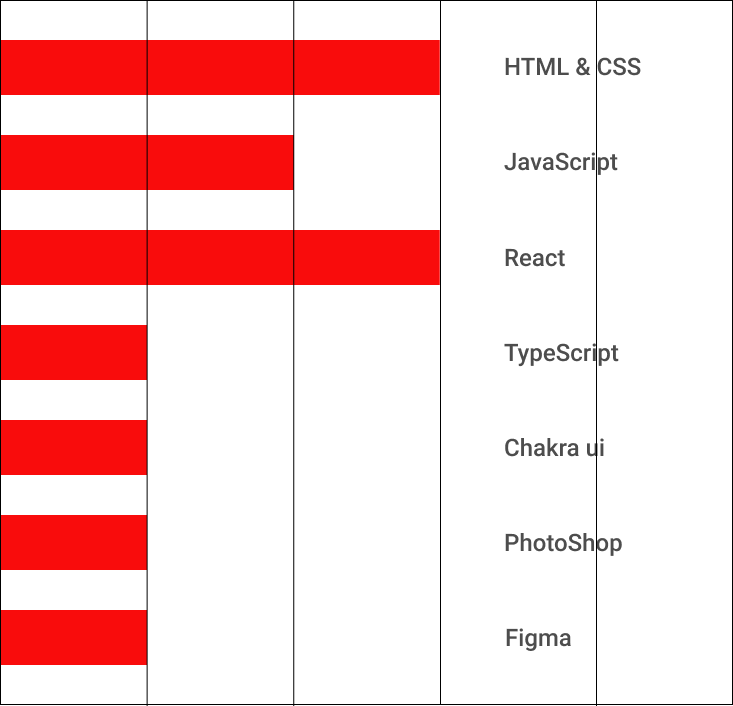
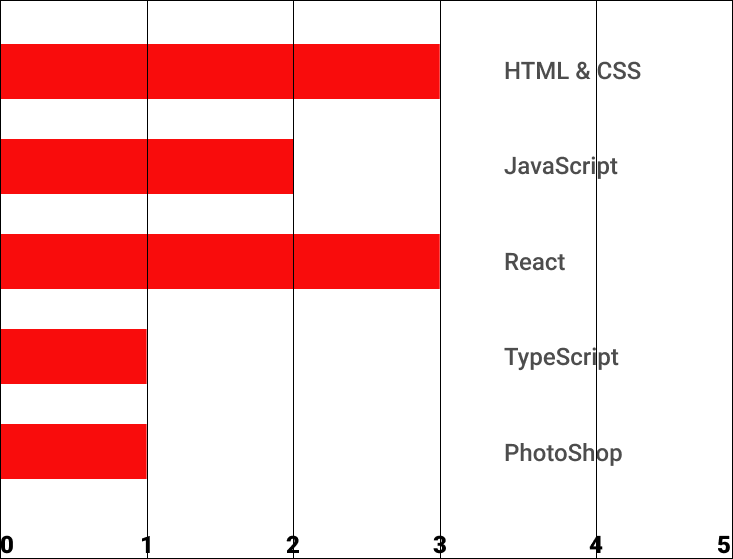
.

diff --git a/src/App.js b/src/App.js
@@ -4,9 +4,11 @@ import { Top } from './components/molecules/Top';
 import { SpanBox } from './components/attoms/SpanBox';
 import { Background } from './components/template/Background';
 import { Profile } from './components/molecules/Profile';
+import { Skill } from './components/molecules/Skill';
 import { Works } from './components/molecules/Works';
 import { Contact } from './components/molecules/Contact';
 import { Footer } from './components/molecules/Footer';
+
 
 function App() {
   return (
@@ -17,8 +19,8 @@ function App() {
         <SpanBox />
         <Profile />
         <SpanBox />
-        {/* <Skill />
-        <SpanBox /> */}
+        <Skill />
+        <SpanBox />
         <Works />
         <SpanBox />
         <Contact />

diff --git a/src/components/molecules/Top.js b/src/components/molecules/Top.js
@@ -3,18 +3,25 @@ import styled from "styled-components";
 
 export const Top = () => {
     return(
-        <div>
+        <Sdiv>
             <Stitle>Ryohei's Portfolio</Stitle>
             <Simage src={TopImage} alt="top"/>
-        </div>
+        </Sdiv>
         
     )
 }
 
+const Sdiv = styled.div`
+    background: #A8C5E1;
+`
+
 const Stitle = styled.h1`
     text-align: center;
-    padding-top: 30px;
+    padding: 50px 0;
+    margin: 0;
+    margin-top: 100px;
     font-size: 60px;
+    background: white;
 `
 
 const Simage = styled.img`

diff --git a/src/components/molecules/Skill.js b/src/components/molecules/Skill.js
@@ -1,0 +1,22 @@
+import skillImage from "../../images/skill.png";
+import styled from "styled-components"
+
+export const Skill = () => {
+    return(
+        <Sdiv>
+            <h1>Skill</h1>
+            <Simg src={skillImage} alt="skill" />
+        </Sdiv>
+    )
+}
+
+const Sdiv = styled.div`
+    margin: auto;
+    text-align: center;
+`
+
+const Simg = styled.img`
+    margin: auto;
+    width:700px;
+    height: 450px;
+`

diff --git a/src/components/molecules/Header.js b/src/components/molecules/Header.js
@@ -17,7 +17,11 @@ const Sdiv = styled.div`
     background-color: black;
     color: white;
     height: 100px;
+    position: fixed;
     margin: 0;
+    top: 0;
+    left: 0;
+    right: 0;
 `
 
 const Sul = styled.ul`

diff --git a/src/components/template/Background.js b/src/components/template/Background.js
@@ -8,5 +8,5 @@ export const Background = (props) => {
 const Sdiv = styled.div`
     width: 100%;
     height:100%;
-    background: linear-gradient(blue, pink);
+    background: linear-gradient(#A8C5E1, black);
 `

diff --git a/src/components/molecules/Contact.js b/src/components/molecules/Contact.js
@@ -15,6 +15,7 @@ export const Contact = () => {
 
 const Sdiv = styled.div`
     width: 60%;
+    max-width: 500px;
     margin: auto;
     padding: 20px;
     text-align: center;
